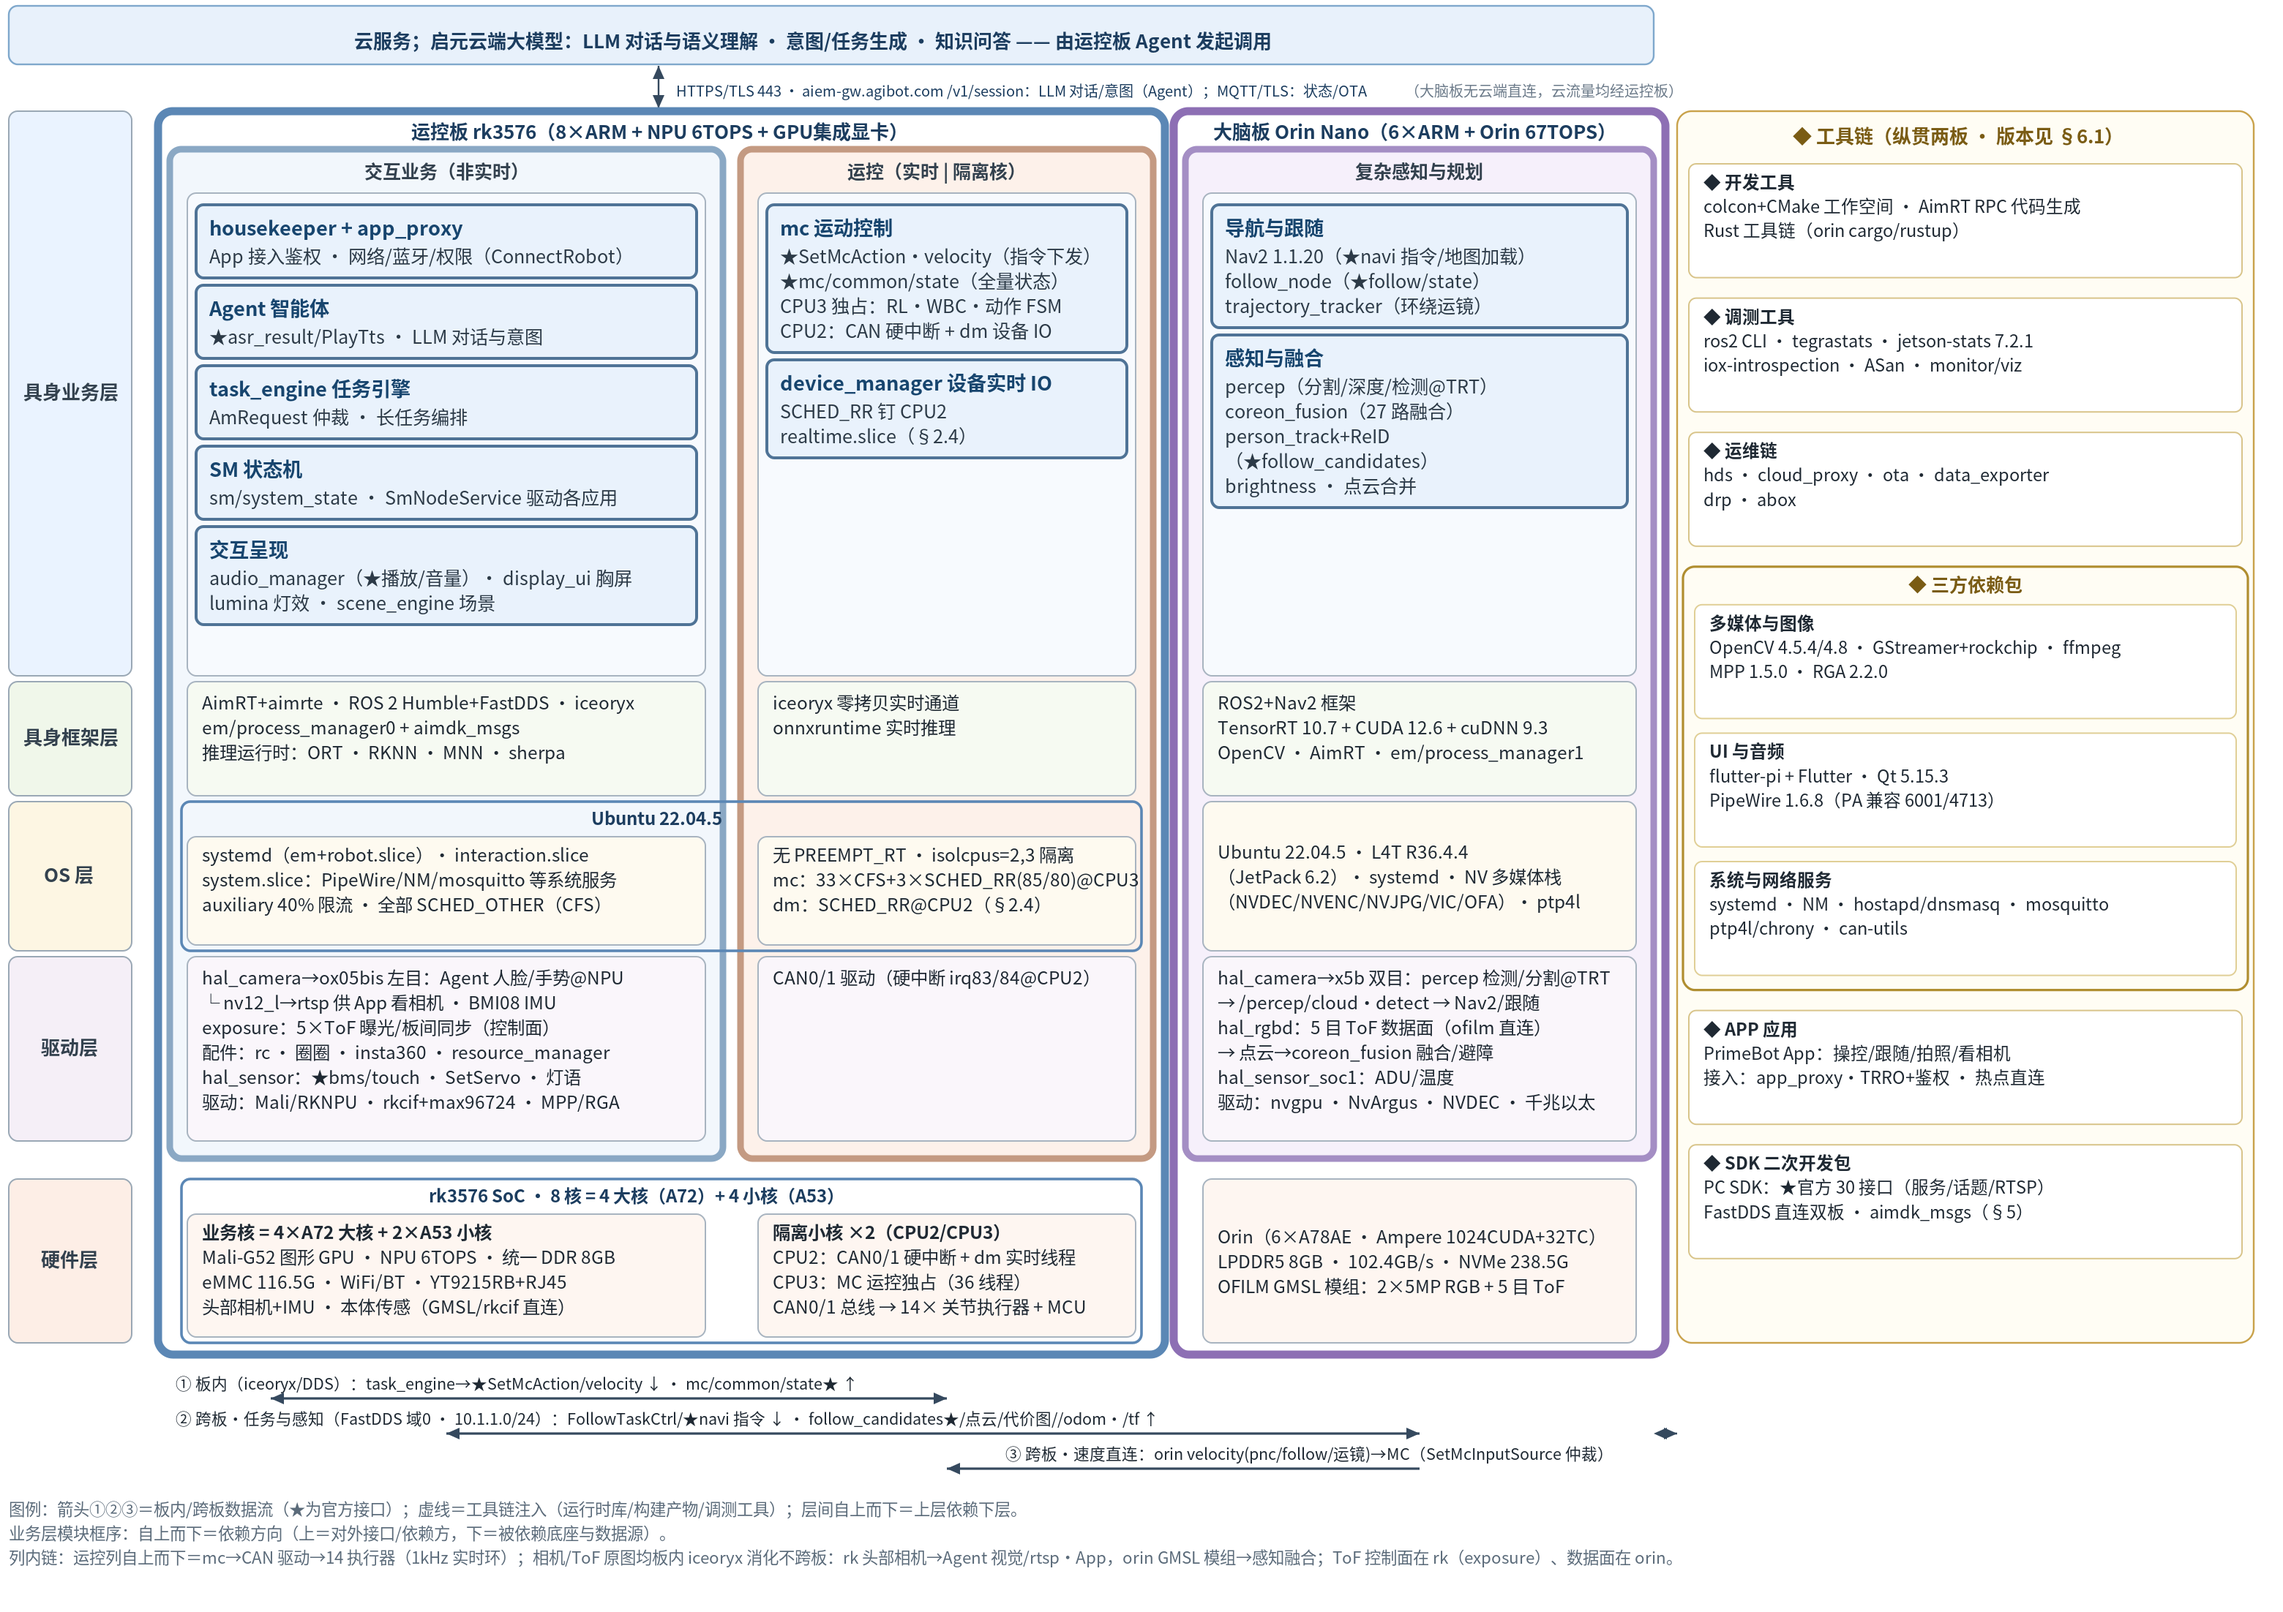
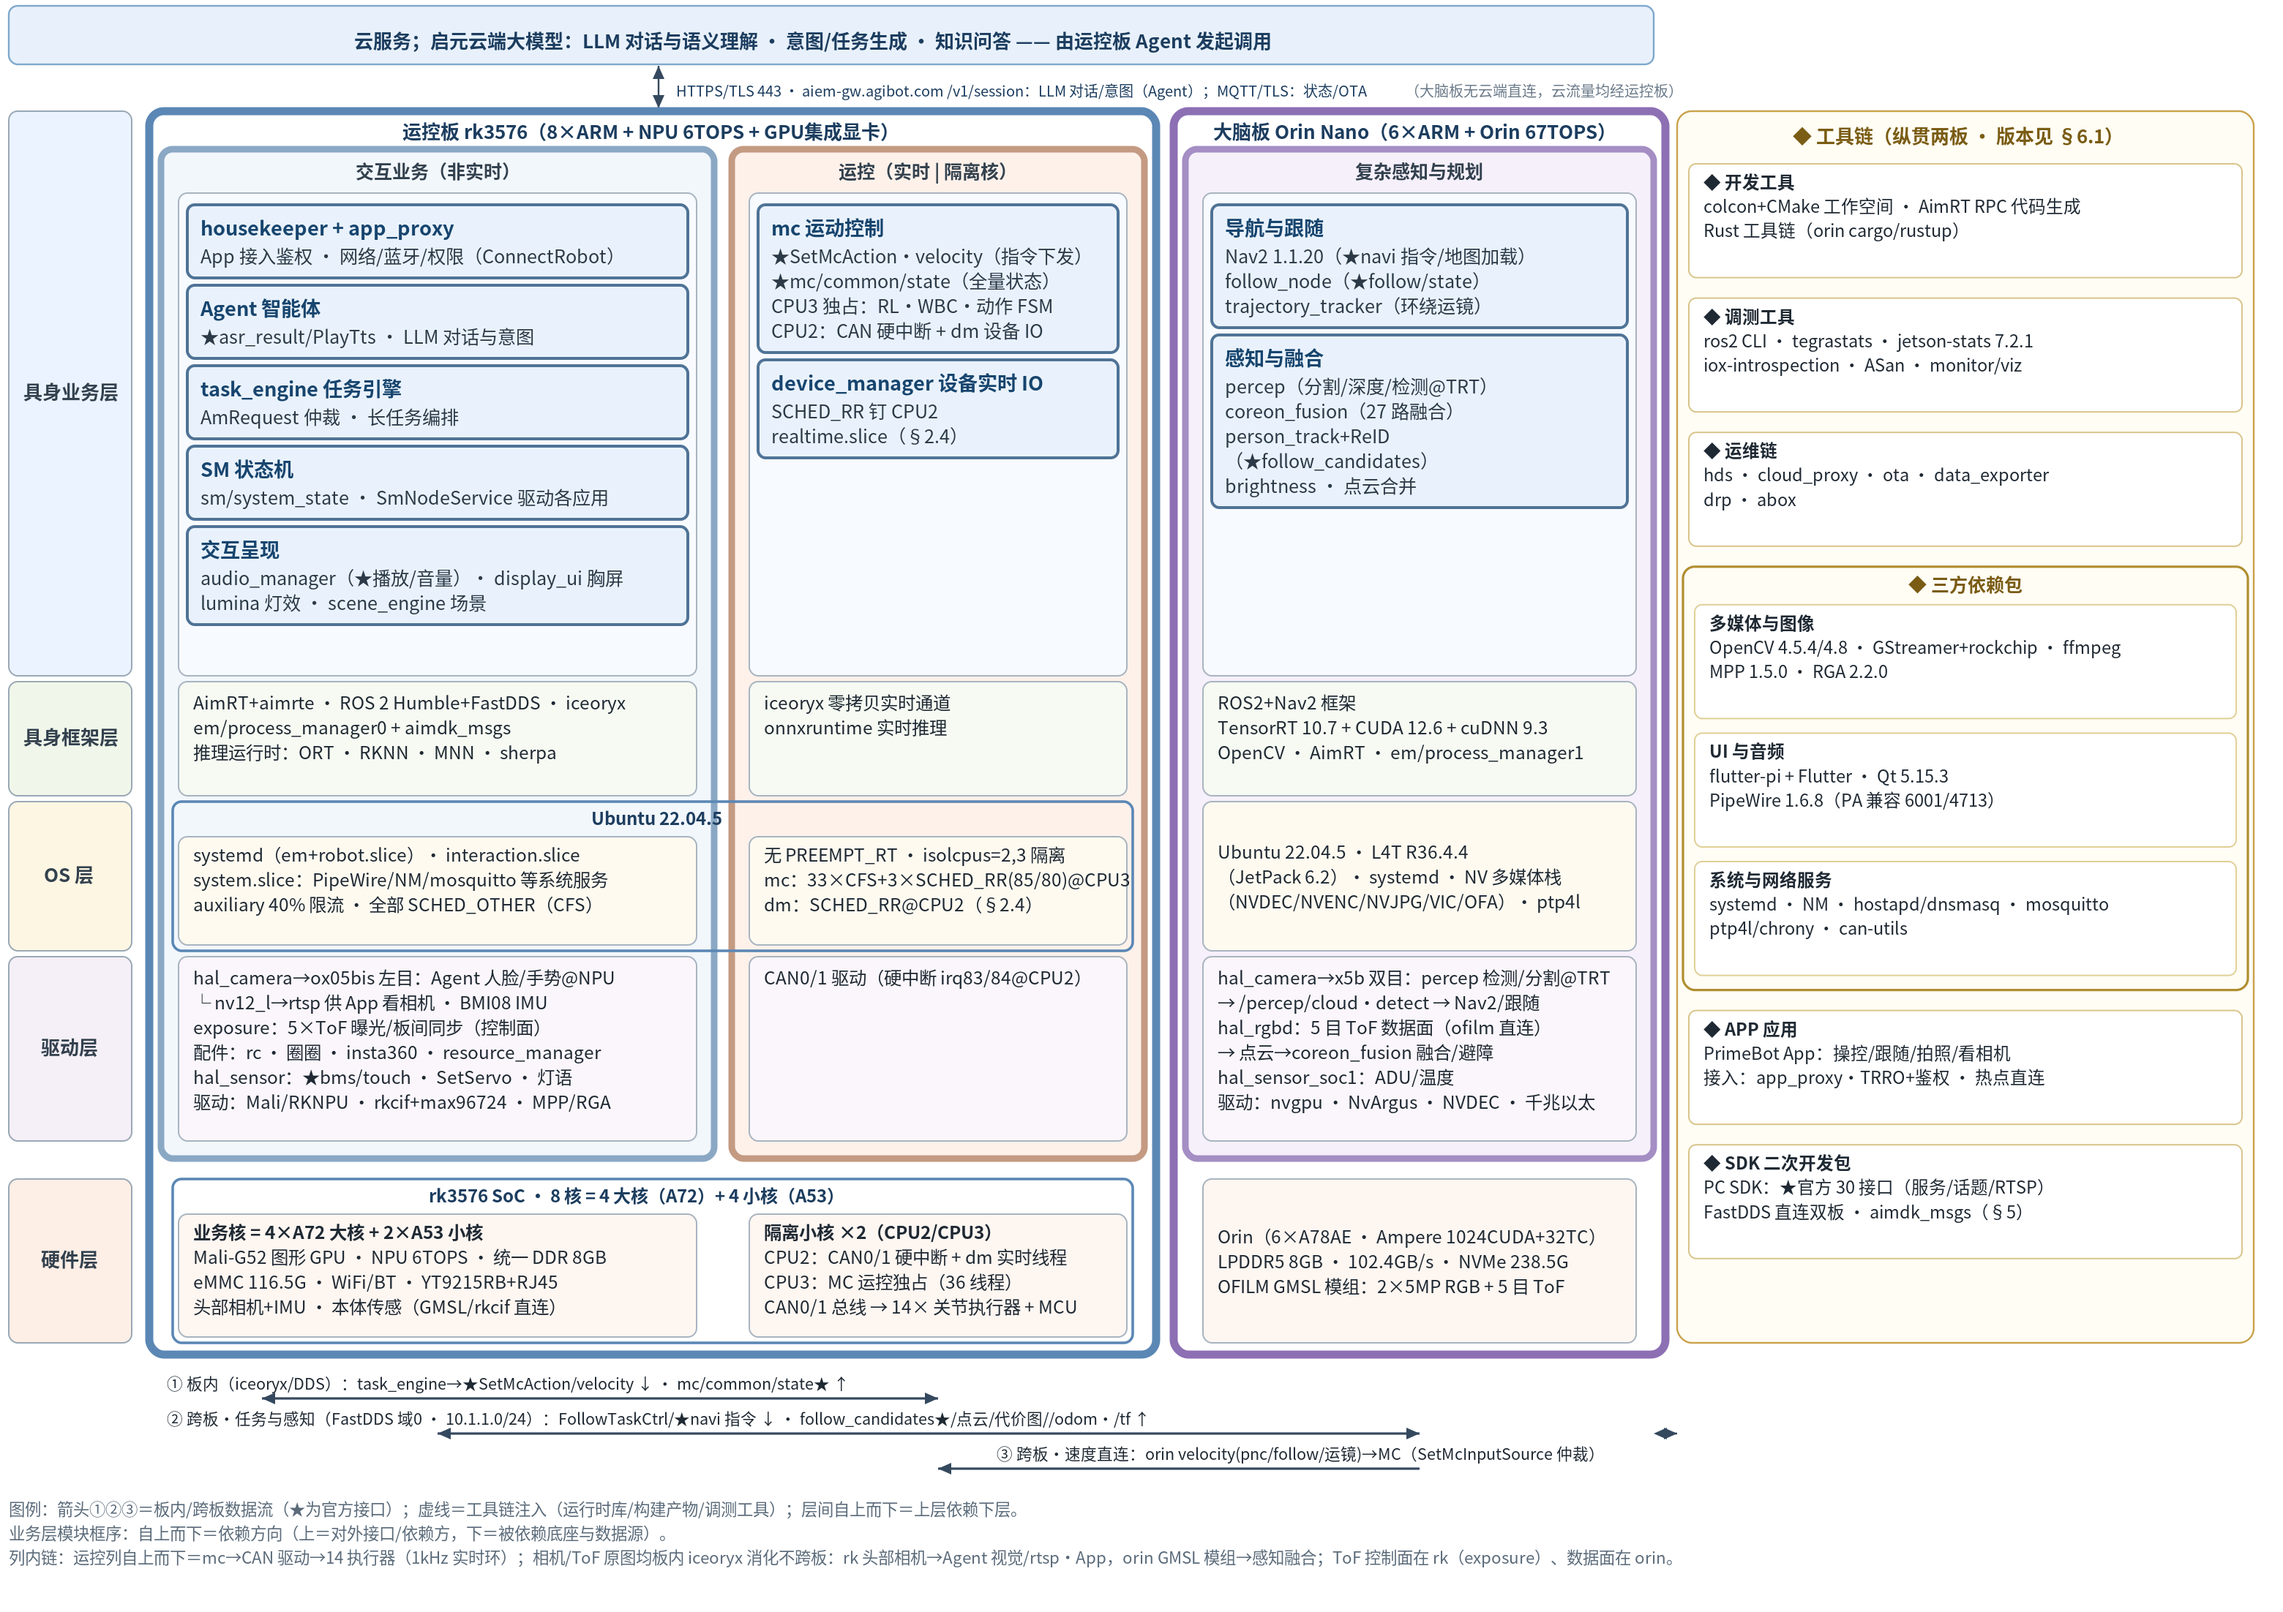
图 7-1：运控板及其子框整体左移 6px，与大脑板间隙 6→12px
- C1/C2 列 110/500，板框 102-790；OS/硬件横跨框同步 118-774
- Chrome 117/117 文本全渲染；?v=20261031v

Changed region(s): [[0.0622, 0.0617, 0.5285, 0.8947], [0.5285, 0.8947, 0.7151, 0.9256], [0.3731, 0.8639, 0.4974, 0.9256]]

diff --git a/figures/gen_fig_7_1.py b/figures/gen_fig_7_1.py
@@ -51,8 +51,8 @@ S = []   # 图体元素（svg 开闭标签在末尾按实际画布高拼装）
 
 # ---------- 版面常量 ----------
 LBL_X, LBL_W = 6, 84
-C1_X, C1_W = 116, 378                 # rk·交互业务
-C2_X, C2_W = 506, 282                 # rk·运控
+C1_X, C1_W = 110, 378                 # rk·交互业务（整体左移 6，与大脑板留隙）
+C2_X, C2_W = 500, 282                 # rk·运控
 C3_X, C3_W = 810, 320                 # orin（右移 14：与运控板框留 6px 间隙）
 TC_X, TC_W = 1146, 394                # 工具链（纵贯）
 PAD = 8
@@ -213,7 +213,7 @@ for ri, (lname, cont) in enumerate(ROWS):
     if ri == 1:
         # OS 层：rk 两列同属一个 Ubuntu 22.04.5 实例 → 外包统一框（落在运控板框内）
         WH = 24
-        S.append(box(124, yt, 656, h, 'none', '#5b87b5', 1.8, rx=6))
+        S.append(box(118, yt, 656, h, 'none', '#5b87b5', 1.8, rx=6))
         t, _ = text_block(0, yt + 16, [('Ubuntu 22.04.5', True)], fs=12,
                           color='#1c3d5f', center=452, maxw=660)
         S.append(t)
@@ -245,7 +245,7 @@ t, _ = text_block(0, HW_Y + HW_H // 2 + 4, [('硬件层', True)], fs=13, color='
                   center=LBL_X + LBL_W // 2, maxw=LBL_W - 10)
 S.append(t)
 WHW = 24
-S.append(box(124, HW_Y, 656, HW_H, 'none', '#5b87b5', 1.8, rx=6))
+S.append(box(118, HW_Y, 656, HW_H, 'none', '#5b87b5', 1.8, rx=6))
 t, _ = text_block(0, HW_Y + 16, [('rk3576 SoC · 8 核 = 4 大核（A72）+ 4 小核（A53）', True)],
                   fs=12, color='#1c3d5f', center=452, maxw=660)
 S.append(t)

diff --git a/t1-pro-orin-rk-analysis.md b/t1-pro-orin-rk-analysis.md
@@ -1487,7 +1487,7 @@ sequenceDiagram
 
 **排版口径**：**纵向（列）**按部署域切分为三部分——运控板 rk 的「交互业务（非实时）」与「运控执行（实时）」两列 + 大脑板 orin 的「复杂感知与规划」一列；**横向（行）**自上而下为**具身业务层 → 具身框架层 → OS 层 → 驱动层 → 硬件层**五层（即自底向上：硬件→驱动→OS→框架→业务）；**最右侧为纵贯全部层级的「工具链」大框**。因 mermaid 自动布局无法锁定矩阵式行列顺序，本图由脚本生成 **SVG 矢量图**（`figures/gen_fig_7_1.py` → `figures/fig-7-1-layered-arch.svg`，仓库同时提供 PNG 版 `fig-7-1-layered-arch.png`），行列位置精确可控，并直接画出板内/跨板数据流与工具链注入连线。按 4+1 视图口径，**本图即逻辑视图**：以具身业务层的功能模块（职责+接口★）为主体，其下框架/OS/驱动层与硬件层作为物理承载一并框出（嵌套结构：**板框 ⊃ 部分框 ⊃ 业务/框架/OS/驱动四层；硬件层在板框内、部分框外**）；模块间接口协作另见 §7.4，场景串联见 §6.2。
 
-![图 7-1 逻辑视图（双板纵切 × 五层横切 × 工具链纵贯）](figures/fig-7-1-layered-arch.png?v=20261031u)
+![图 7-1 逻辑视图（双板纵切 × 五层横切 × 工具链纵贯）](figures/fig-7-1-layered-arch.png?v=20261031v)
 
 > **图 7-1 读法**：**板框**（运控板 rk3576 / 大脑板 Orin Nano）⊃ **部分框**（交互业务（非实时）/ 运控（实时｜隔离核）/ 复杂感知与规划，各含具身业务→框架→OS→驱动四层，上层依赖下层）（正文为缩略显示，点击图片可放大至原生分辨率）；**硬件层**在板框内、部分框正下方（**rk 侧两格外包统一框：rk3576 8 核＝4×A72 大核＋4×A53 小核**，内格细分业务核〔4×A72＋2×A53〕与 2×隔离小核 CPU2/CPU3）；**OS 层 rk 两列同属一个 Ubuntu 22.04.5 实例**（外包统一框；两格内容侧重调度——业务格：interaction/system/auxiliary slice + CFS，运控格：isolcpus=2,3 + SCHED_RR 钉核）；**具身业务层内每模块独立成框，框序自上而下=依赖方向（上=对外接口/依赖方，下=被依赖底座与数据源）**；最右列为**工具链**纵贯（**开发工具 → 调测工具 → 运维链 → 三方依赖包**〔多媒体与图像 · UI 与音频 · 系统与网络服务〕**→ APP 应用 → SDK 二次开发包**；**传感直连内容已并入各板驱动层格**——rk 格以 hal_sensor/hal_camera(ox05bis)/exposure 为前，orin 格以 hal_rgbd/hal_camera(x5b) 为前）；**①②③通信线统一画在图底部**。
 > **连线与交互**（图上带编号的箭头）：**① 板内**（rk 业务⇄运控，iceoryx/DDS）——task_engine→★SetMcAction/velocity ↓，mc→★mc/common/state ↑；**② 跨板·任务与感知**（rk 业务⇄orin，内部以太网 10.1.1.0/24 · FastDDS 域 0）——FollowTaskCtrl/★navi 指令 ↓，★follow_candidates/点云/代价图、/odom·/tf ↑（只走结果级数据，相机原图板内消化）；**③ 跨板·速度直连**（orin→MC）——nav2/follow/运镜发布 velocity(pnc/follow)，MC 按 SetMcInputSource 仲裁；**外部接入**——App→app_proxy(TRRO/鉴权)、**云 LLM⇄Agent（HTTPS/TLS 443 · aiem-gw.agibot.com /v1/session：对话/意图，顶部「启元云端大模型」带即此链路，仅连运控板；2026-10-31 实测大脑板零云进程/零外部连接）**、云→cloud_proxy(MQTT/TLS：状态/OTA)、遥控器→rc(蓝牙)、圈圈→connx(BLE+UWB)、Insta360→insta360(WiFi)，全部终结于 rk；PC ★接口面 FastDDS 直连双板；**虚线**=工具链注入。模块级全量接口见 §7.4，连接视角见 §7.2。
